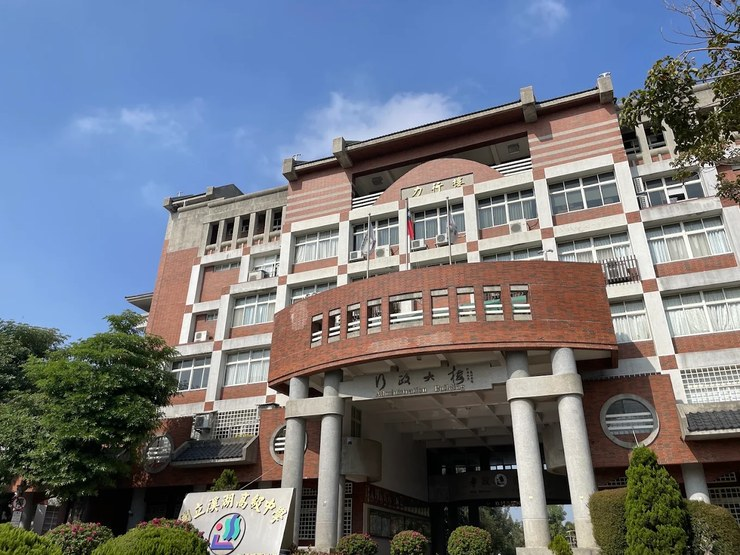
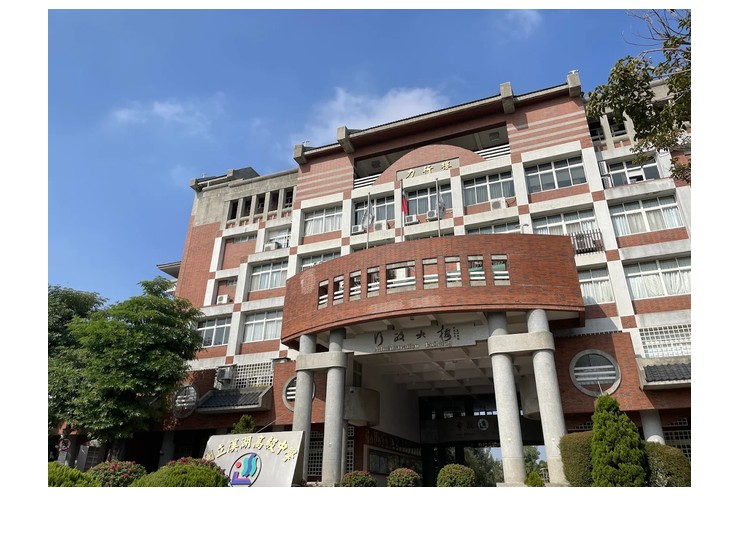
溪湖高中卡片照片改用統一白邊框格式
重新裁切成跟其他學校圖卡一致的白邊框樣式(740x555白畫布,
照片置中留邊)，之前直接resize貼滿邊框跟其他卡片不一致。

diff --git a/schools/index.html b/schools/index.html
@@ -710,7 +710,7 @@
   </div>
 </a>
   <a class="hub-school-card" href="https://changhua-bilingual.org/schools/sihu-senior/" target="_blank" rel="noopener" data-search="Sihu HS 溪湖高中 Xihu Township 溪湖鎮 sihu-senior">
-  <img class="photo" src="/assets/images/schools/sihu-senior.jpg?v=1787189742" alt="Sihu HS" loading="lazy">
+  <img class="photo" src="/assets/images/schools/sihu-senior.jpg?v=1787191002" alt="Sihu HS" loading="lazy">
   <div class="body">
     <p class="name">Sihu HS</p>
     <p class="zh">溪湖高中</p>
